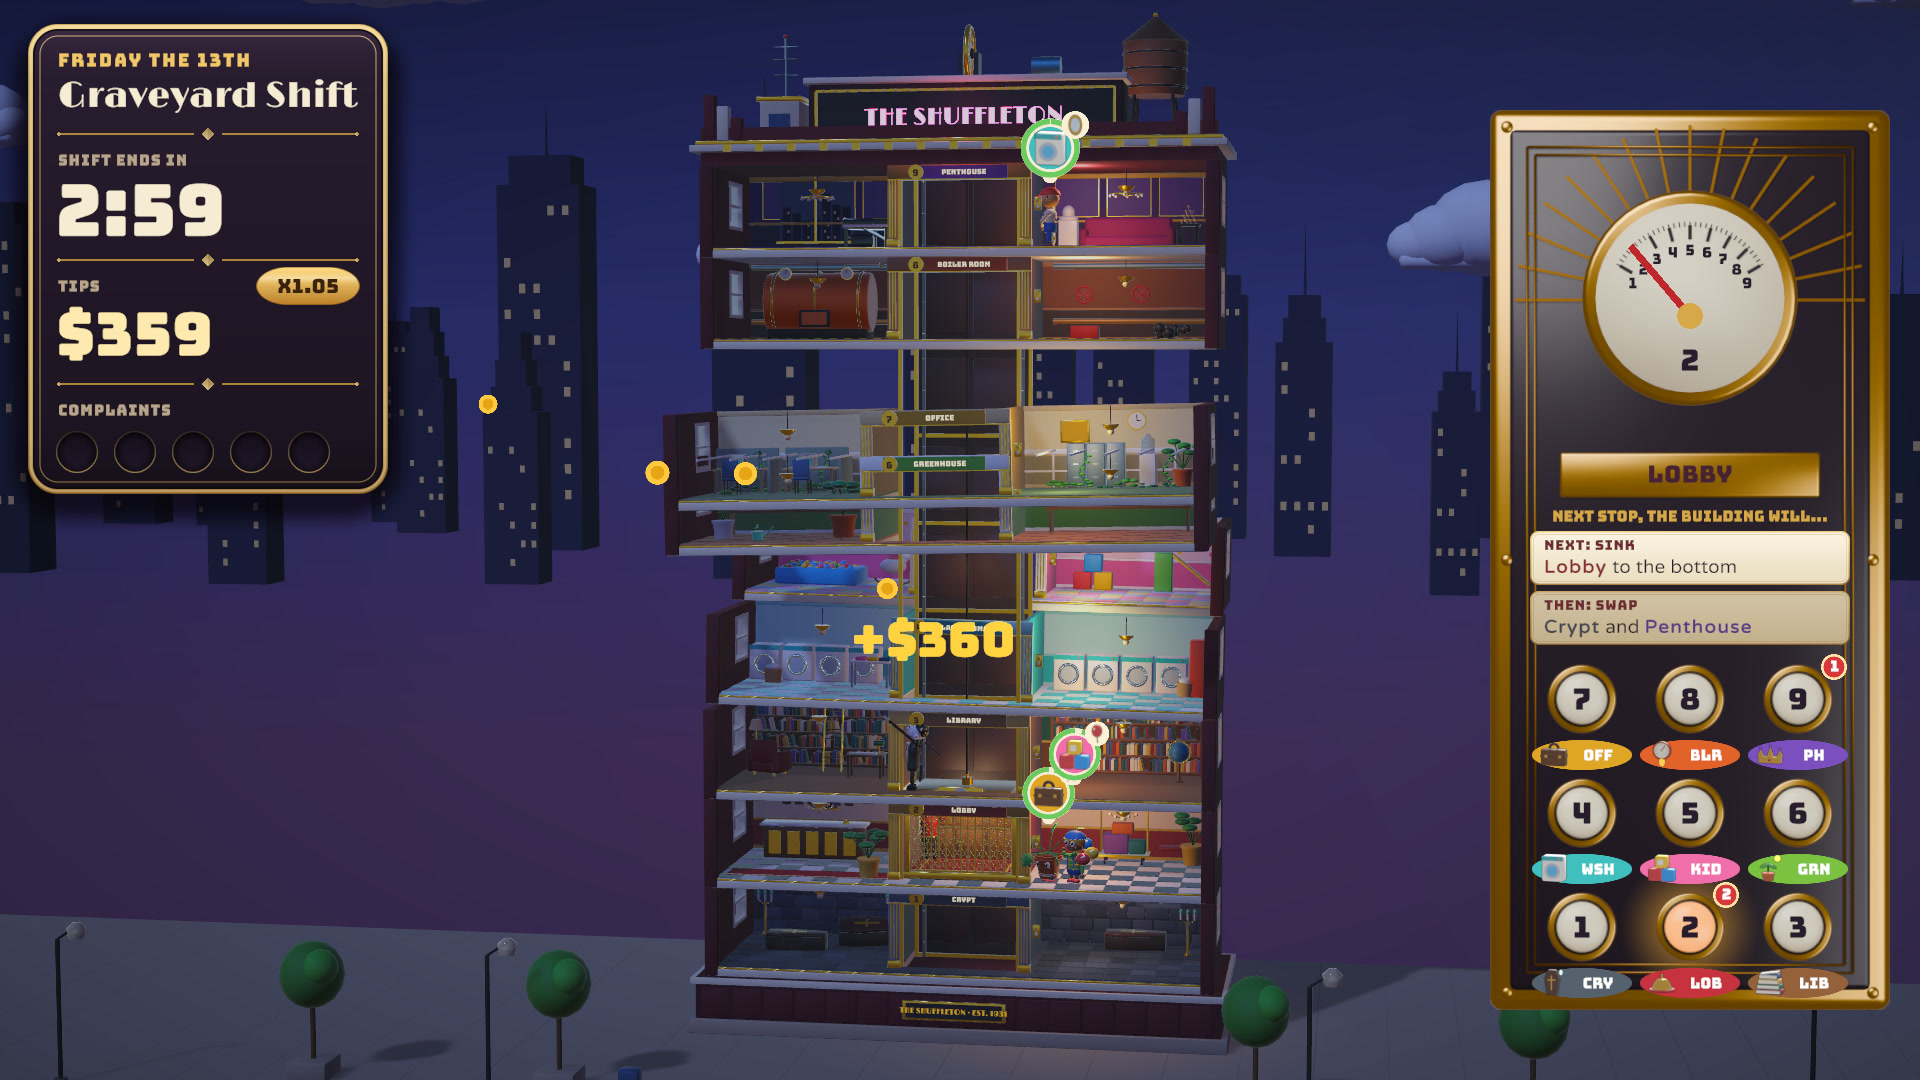
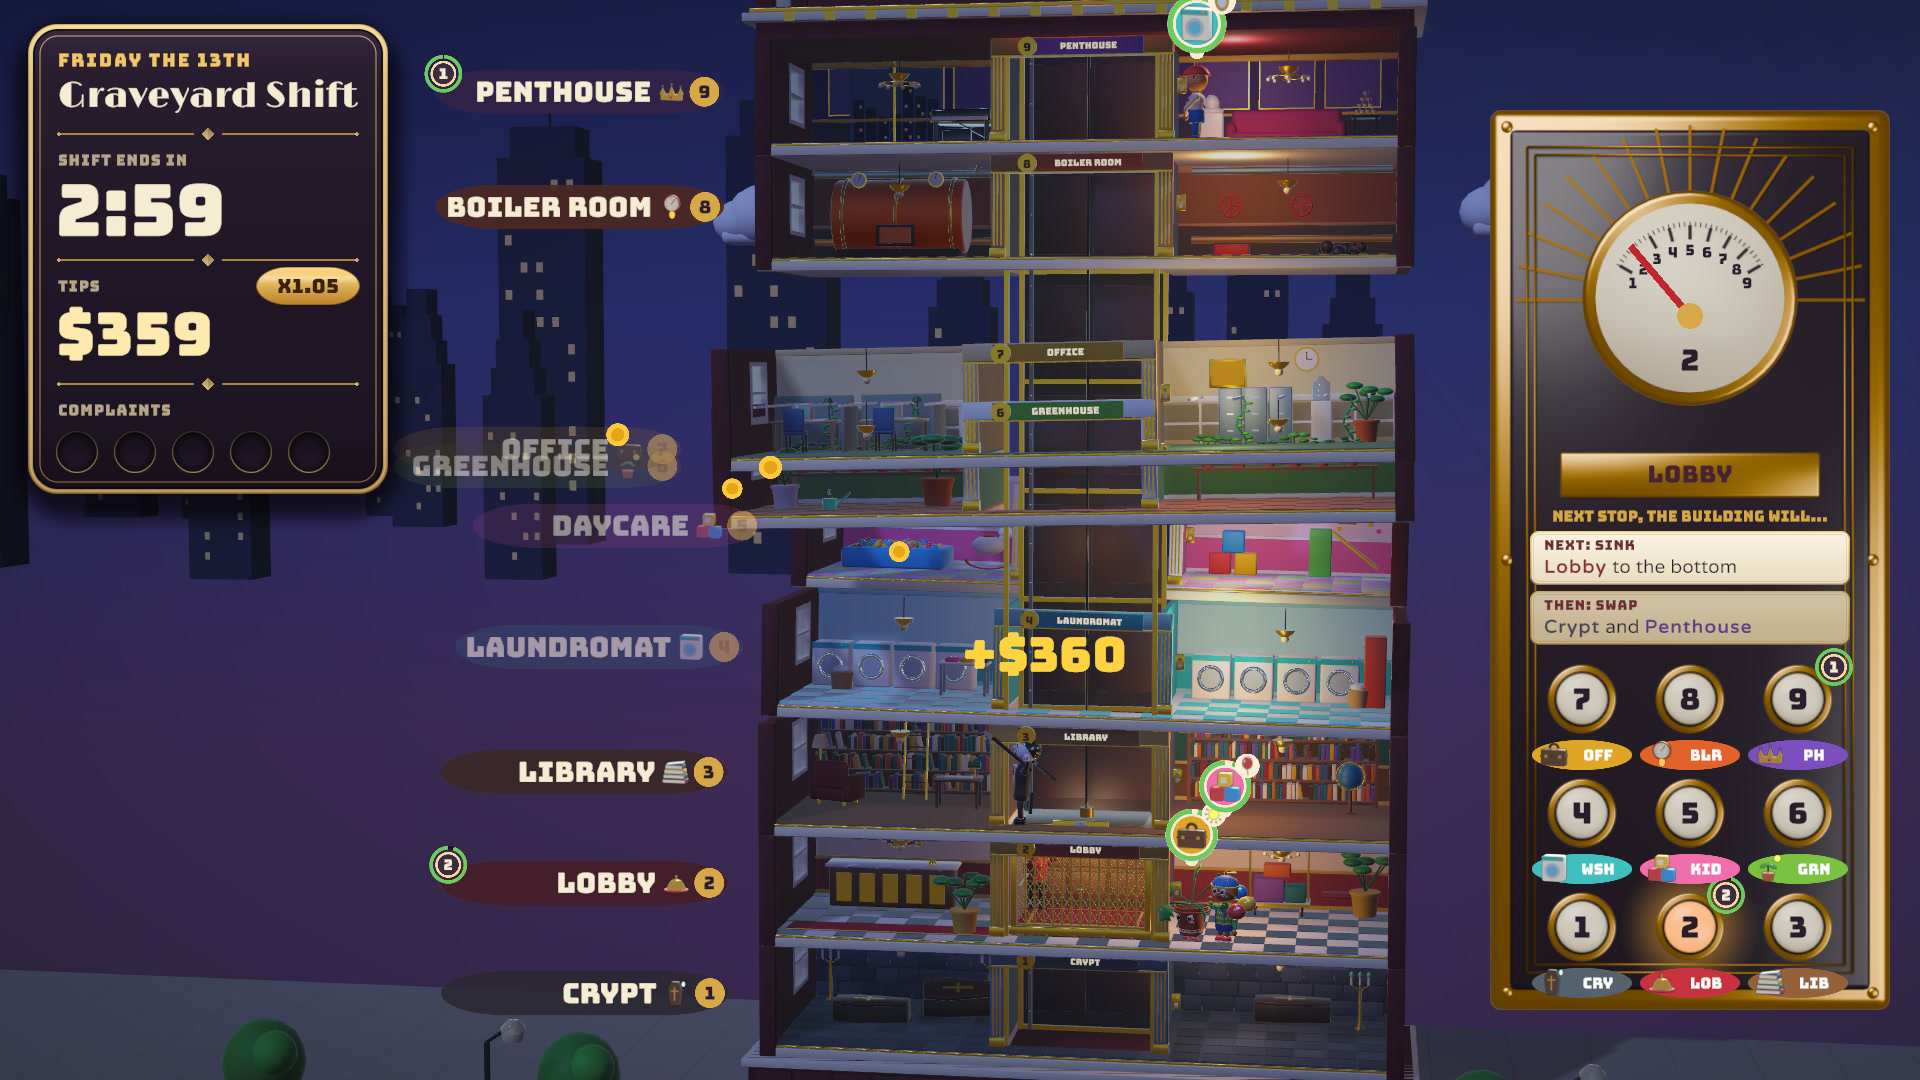
T5: README screenshots from the current build; README covers round 3
Tools/make_trailer.sh stills runs only TrailerReel's video pass and
writes only docs/media/screenshots (build.py 'screenshots' target); the
trailer, its poster and the teaser GIF are left as they were (re-cutting
the trailer is the owner's call). All ten screenshots regenerated: they now
show the floor-label column, the tighter framing, the patience badges and the
merged reward popups. Each was looked at against its caption; only the
triple-drop alt text had to change (no sunkissed or jammed popups in the new
frame).

README: how the waiting badges and per-stop tip popups work, the stills
command, the automation XDG_CONFIG_HOME isolation, and a narrower 'old
media' caveat (trailer, poster, teaser) with the guest-size arithmetic.

diff --git a/Tools/trailer/build.py b/Tools/trailer/build.py
@@ -347,6 +347,10 @@ def main():
         raise SystemExit(__doc__)
     cap, out = sys.argv[1], sys.argv[2]
     what = set(sys.argv[3:]) or {"trailer", "media"}
+    if what == {"screenshots"}:
+        # README stills only: no shot manifest or audio needed
+        screenshots(cap, os.path.join(out, "screenshots"))
+        return
     work = os.path.join(cap, "build")
     os.makedirs(work, exist_ok=True)
     os.makedirs(out, exist_ok=True)

diff --git a/README.md b/README.md
@@ -140,11 +140,12 @@ a few stops.
 
 ### Tips, streaks and group drops
 
-<img src="docs/media/screenshots/triple-drop.jpg" alt="Rush hour: a triple drop with sunkissed and jammed popups and the streak at x2.50" width="100%">
+<img src="docs/media/screenshots/triple-drop.jpg" alt="Rush hour: a triple drop pays $2,605 in one popup, with the streak at x2.50" width="100%">
 
 Tips are fare plus patience left, times your **streak** (+5% per delivery, up to ×2.5; any complaint resets it)
 times **group drops** (+25% for each extra guest delivered at the same stop). The last 30 seconds are **Rush Hour**,
-worth ×1.5. Stars come from your tips, and **one star unlocks the next shift**. If a shift won't give you a star,
+worth ×1.5. Each stop's tips add up in a single popup, and the drop banner upgrades from DOUBLE to TRIPLE to
+FULL HOUSE. Stars come from your tips, and **one star unlocks the next shift**. If a shift won't give you a star,
 clock out on it three times and The Management gives you a **late pass** to the next one (Overtime still needs a
 star on the Graveyard Shift).
 
@@ -160,7 +161,9 @@ Hover a guest to see who they are and where they're going. Hover a floor to prev
 when a kid is aboard, where sunlight will hit a vampire or sun a plant, and how many guests get off.
 
 Labels beside the tower name every floor, with its slot number, how many guests are waiting there and, when it's
-leaving the building, how many stops it has left. They follow the floors as the building shuffles.
+leaving the building, how many stops it has left. They follow the floors as the building shuffles. The waiting
+count, on the labels and on the panel's buttons, is ringed with the patience of the floor's most impatient guest:
+dark while everyone is calm, amber under half, and red and pulsing when someone is about to storm off.
 
 ### Music that panics
 
@@ -271,7 +274,8 @@ Tools/unity.sh test        # EditMode tests: every rule, determinism, a random-i
 Tools/sim.sh fuzz          # the rules on .NET outside Unity: random commands against every shift, invariants checked
 Tools/sim.sh balance       # four bot skill levels play every shift (also: human, stars, pace, causes, relaxed)
 Tools/autopilot.sh         # plays all ten shifts in the built game, then drives the menus with a virtual gamepad
-                           # and runs the flow checks (late pass, time card, auto-pause, pad glyphs, settings)
+                           # and runs the flow checks (late pass, time card, auto-pause, pad glyphs, settings,
+                           # patience badges); every shift also fails if two reward popups ever overlap
 Tools/autopilot.sh out ui  # just the flow checks (a few minutes)
 ```
 
@@ -280,7 +284,11 @@ Tools/autopilot.sh out ui  # just the flow checks (a few minutes)
 ```sh
 Tools/make_trailer.sh      # records every shot from the built game, then cuts docs/media/trailer.mp4,
                            # the poster, the teaser GIF and the screenshots (about 15 minutes)
+Tools/make_trailer.sh stills   # only the README screenshots (about 6 minutes)
 ```
+
+Automation runs (`autopilot.sh`, `demo.sh`, `make_trailer.sh`) point `XDG_CONFIG_HOME` at the gitignored `Logs/xdg`,
+so they never touch your save or Unity's prefs in `~/.config/unity3d`.
 
 `TrailerReel` (in the game) plays each shot from a fixed seed, skips ahead to a moment it found by playing the same
 seed headlessly, and records it twice: once rendered offline at a locked 30 fps, and once in real time to capture
@@ -381,9 +389,11 @@ gamepad support), and it passes its automated checks. Honest caveats:
 - **Guests are still small at full zoom-out.** Play frames the tower more tightly than the menus do, so with nine
   floors it's about 25% bigger than in 0.1.0 (floors 116 px apart at 1080p, up from 92, or 112 px with the gamepad
   prompt strip showing). Guests are about 60–75 px tall, and the close-up zoom roughly doubles that. Layouts were
-  checked at 1920×1080, 1440×900 and 2560×1080, not on other screens. The README's older screenshots and the
-  trailer show the 0.1.0 framing. Drawing guests 15% bigger was tried and dropped: a full car pushes heads up to its
-  ceiling. Bigger guests need the car and floors re-proportioned.
+  checked at 1920×1080, 1440×900 and 2560×1080, not on other screens. The screenshots above are from the current
+  build, but the trailer, its poster and the teaser GIF still show the 0.1.0 framing. Drawing guests 15% bigger was
+  tried and dropped: a full car pushes heads up to its ceiling. The room is 2.5 units tall and the car 2.4, and
+  nine floors have to fit the screen's height, so bigger guests mean re-proportioning the floors or showing fewer
+  floors at once, which is a design decision.
 - **Linux is the only released platform.** A universal macOS app builds (both architectures confirmed with `file`,
   bundle id `com.nearbycoder.onemorefloor`), but it has never been run on a Mac, and it's unsigned and
   un-notarized. No Windows build has been made: this machine's editor doesn't have Windows Build Support.
